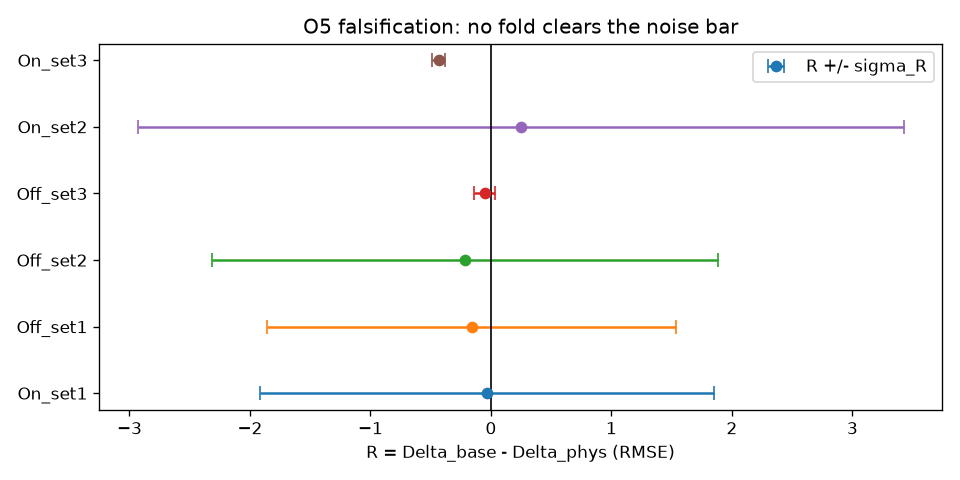
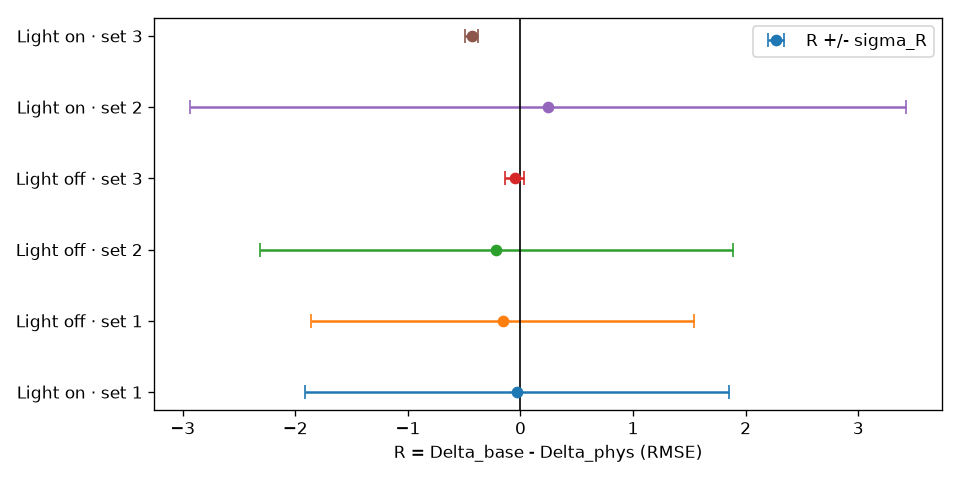
docs: relabel O5 forest folds (light on/off), drop title

diff --git a/scripts/make_figures.py b/scripts/make_figures.py
@@ -16,6 +16,9 @@ OUT = os.path.join(os.path.dirname(os.path.abspath(__file__)), "..", "results", 
 os.makedirs(OUT, exist_ok=True)
 
 FOLDS = ["On_set1", "Off_set1", "Off_set2", "Off_set3", "On_set2", "On_set3"]
+# Human-readable fold labels; On/Off is the archive's illumination flag.
+LABELS = ["Light on · set 1", "Light off · set 1", "Light off · set 2",
+          "Light off · set 3", "Light on · set 2", "Light on · set 3"]
 
 
 def load(path):
@@ -37,9 +40,8 @@ def main():
         ax.errorbar(r, i, xerr=s, fmt="o", capsize=4, label="R +/- sigma_R" if i == 0 else "")
     ax.axvline(0, color="k", lw=1)
     ax.set_yticks(range(len(FOLDS)))
-    ax.set_yticklabels(FOLDS)
+    ax.set_yticklabels(LABELS)
     ax.set_xlabel("R = Delta_base - Delta_phys (RMSE)")
-    ax.set_title("O5 falsification: no fold clears the noise bar")
     ax.legend()
     fig.tight_layout()
     fig.savefig(f"{OUT}/o5_forest.png", dpi=120)
